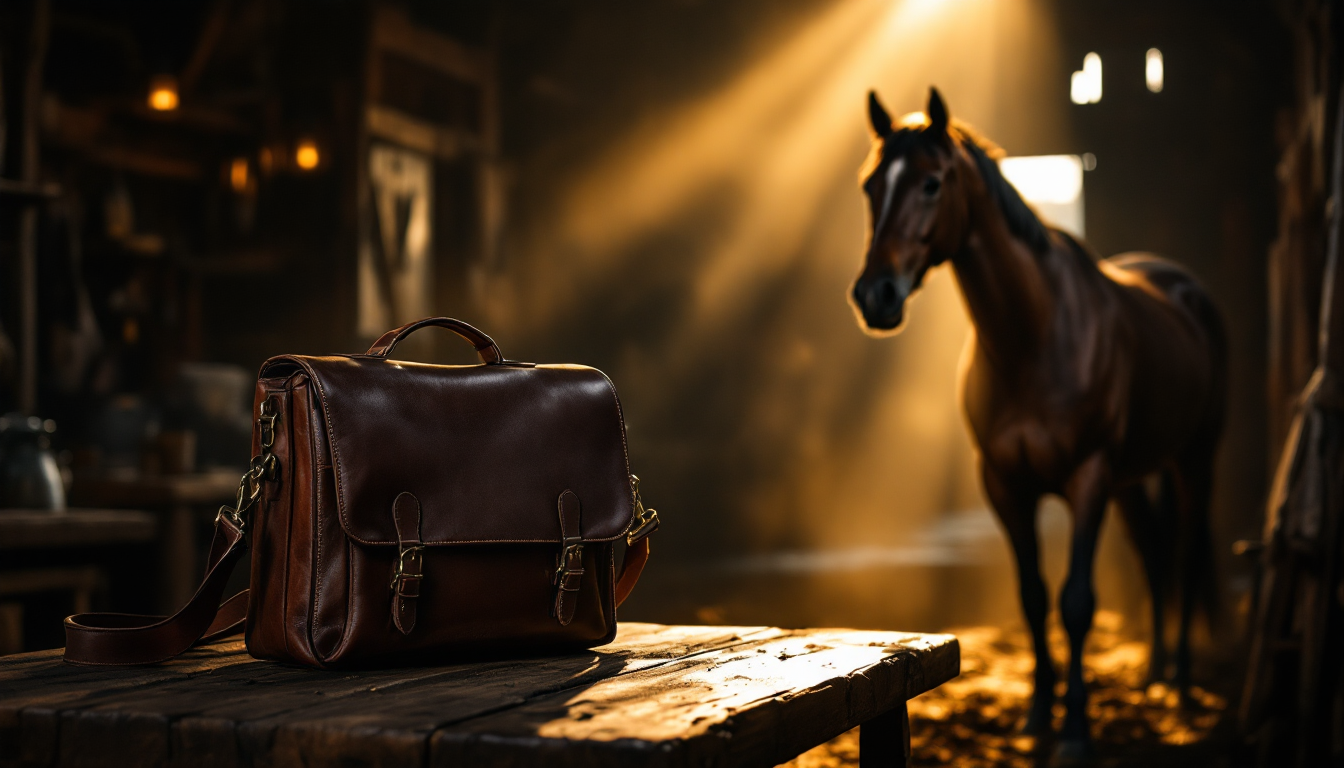
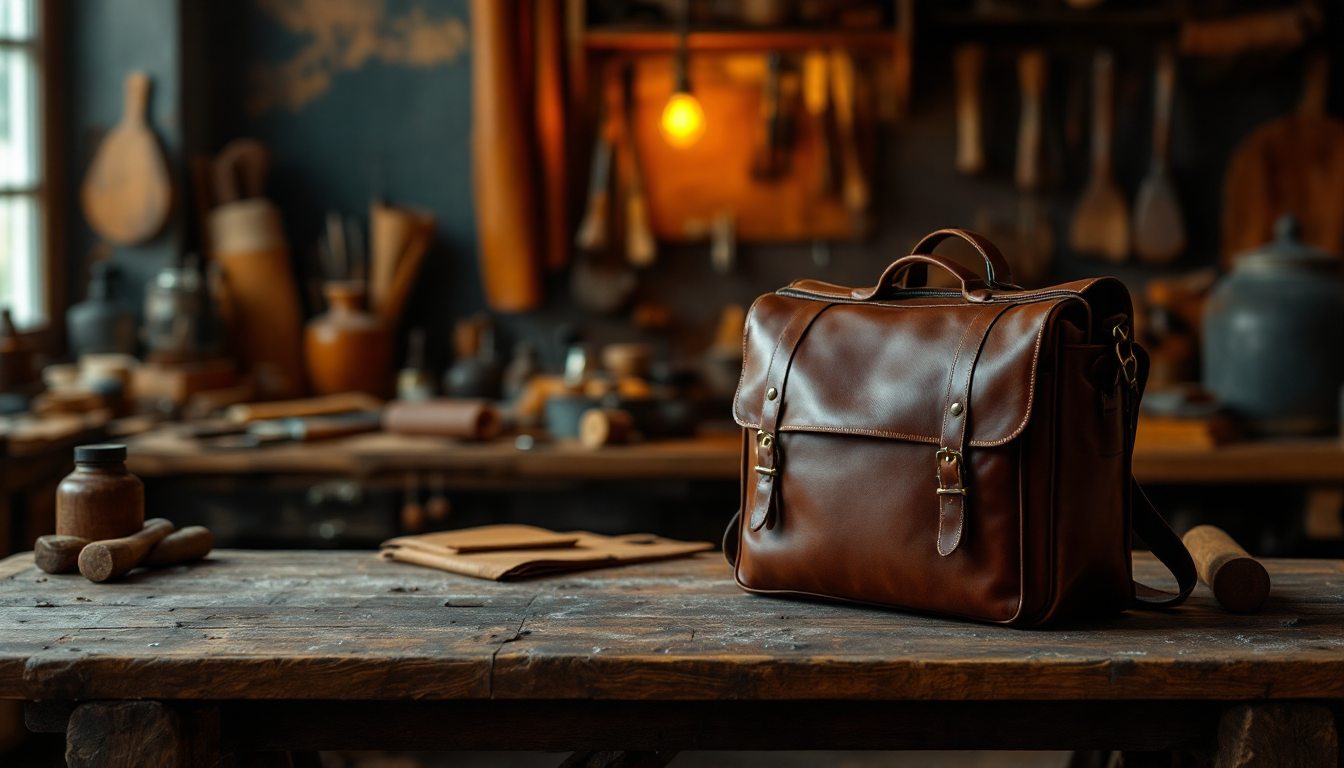
fix: replace horse hero with leather atelier (avoid horse->bag association); reword story copy

diff --git a/index.html b/index.html
@@ -172,9 +172,9 @@
     <div class="container">
       <div class="story-band-inner">
         <span class="section-tagline">Чому Crazy Horse</span>
-        <p class="story-quote">«Шкіра, що приборкує час, як вершник <span>дикого коня</span>.»</p>
+        <p class="story-quote">«Шкіра, що <span>памʼятає</span> кожен ваш дотик.»</p>
         <p class="story-text">
-          Назва Crazy Horse — це не лише тип шкіри. Це характер матеріалу: норовливого спочатку, але вірного на десятиліття. Кожна подряпина тут не дефект, а слід вашої історії, який лягає у благородну патину. Ми шиємо вручну у Львові сідельним швом — тим самим, що тримає кінську збрую.
+          Crazy Horse — це особлива вичинка шкіри: просочена воском, вона світлішає на заломах і ховає подряпини одним рухом пальця. Норовлива спочатку — вірна на десятиліття. Кожна потертість тут не дефект, а слід вашої історії, що лягає у благородну патину. Шиємо вручну у Львові міцним ручним швом у дві голки, що не розпускається роками.
         </p>
       </div>
     </div>